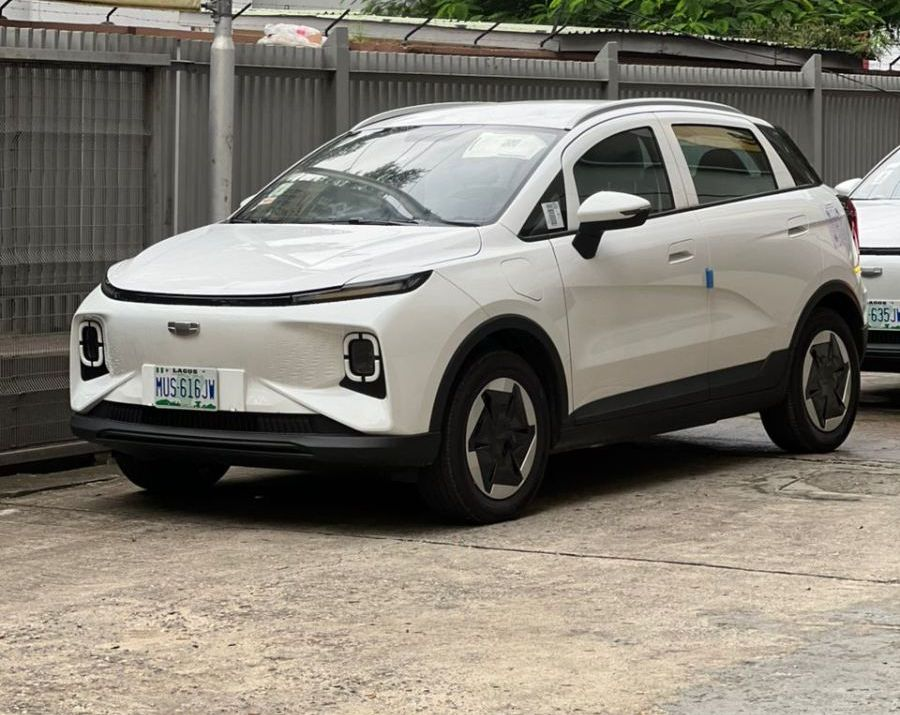
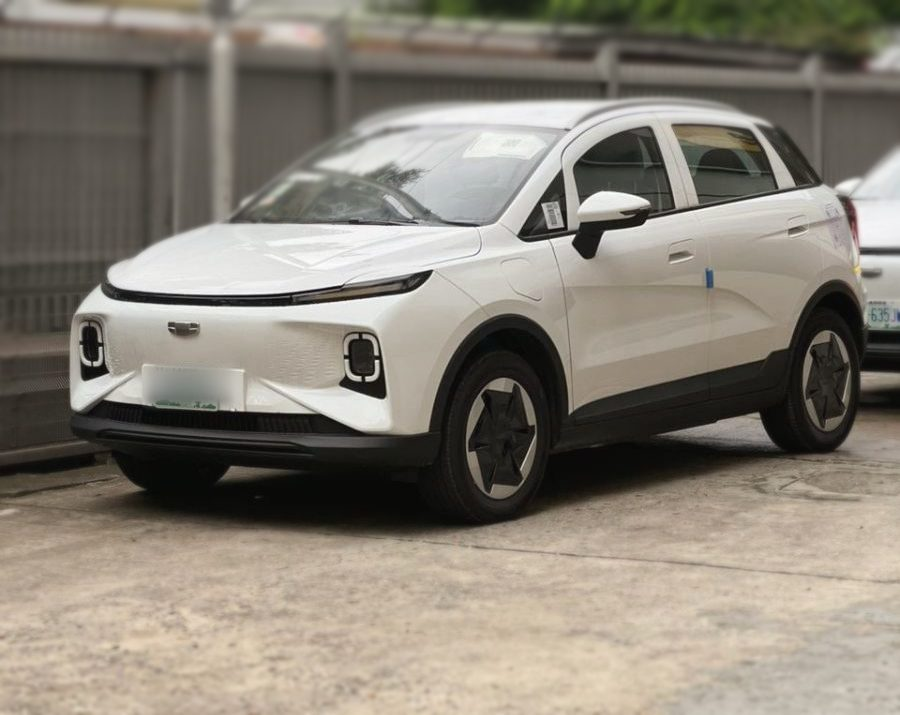
Grade and art-direct the vehicle photographs, blur the plate
Photography, not design: no structure, copy, CTA, pricing or positioning
changes beyond the vehicle-ownership wording the founder asked for.

Editorial grade on all eight photographs so they sit inside the ivory and
charcoal palette rather than reading as phone pictures placed on the
page: a small warm shift, a slight black lift toward charcoal, ~10%
desaturation with a little more restraint on foliage green. Daylight,
white balance on the car and real colour are preserved.

Depth of field on the five exteriors. The vehicle is untouched and fully
sharp; the environment softens progressively, more for distant trees,
buildings, signage, utility wires and neighbouring cars, less just behind
the car, mildly again in the foreground. Maximum radius is 5px on a
900px frame, so the fence, the buildings and the Lagos street all stay
legible — separation, not a cut-out. The three interiors get the grade
only: there is no background to separate inside a car.

MUS-616JW is blurred in the three frames where it is legible, tight to
the plate and soft-edged.

Nothing about the vehicle changed: no alteration to shape, colour,
wheels, trim, badging, interior or proportions, no background
replacement, no added logos, text, props or people.

Founder decisions applied:
- The front-cabin photograph is off the site until the protective
  wrapping is removed; it stays in the repository. The electric page now
  pairs the rear three-quarter with the rear seats, and the corporate
[…]

diff --git a/index.html b/index.html
@@ -109,7 +109,7 @@
     <div class="hero__media">
       <figure class="media-figure">
     <span class="media media--hero">
-      <img src="/assets/img/geely-geometry-e-front-three-quarter.jpg" alt="Zenvoy's white Geely Geometry E parked in Ikoyi, Lagos, seen from the front" loading="eager" decoding="async" width="900" height="715" fetchpriority="high" style="object-position:45% 50%">
+      <img src="/assets/img/geely-geometry-e-front-three-quarter.jpg" alt="A white Geely Geometry E, the electric vehicle available through Zenvoy, parked in Ikoyi, Lagos" loading="eager" decoding="async" width="900" height="715" fetchpriority="high" style="object-position:45% 50%">
     </span>
   </figure>
     </div>
@@ -257,7 +257,7 @@
       <article class="tile">
         <span class="tile__label">Electric</span>
         <h3>Geely Geometry E</h3>
-        <p>Zenvoy&rsquo;s own electric vehicle, with published hourly rates from &#8358;30,000 for two hours. Quiet, cool in traffic and suited to moving around the city.</p>
+        <p>The electric vehicle currently available through Zenvoy, with published hourly rates from &#8358;30,000 for two hours. Quiet, cool in traffic and suited to moving around the city.</p>
         <p class="tile__link"><a class="arrow-link" href="https://wa.me/2348107217858?text=Hi%20Zenvoy%20Mobility%21%20I%20would%20like%20to%20request%20the%20electric%20vehicle%20with%20a%20chauffeur.%0A%0AName%3A%0AWhen%20you%20need%20the%20car%20%28now%20%2F%20later%20today%20%2F%20a%20date%29%3A%0APickup%20time%3A%0APickup%20location%3A%0AHow%20long%20you%20need%20it%20%28from%202%20hours%29%3A%0APassengers%3A%0AVehicle%20preference%3A%20Electric%0ADestination%20%2F%20itinerary%3A%0ASpecial%20requirements%3A%0A%0AThank%20you." target="_blank" rel="noopener">Request this car</a></p>
       </article>
       <article class="tile">
@@ -288,9 +288,9 @@
     <div class="split__media" data-reveal>
       <figure class="media-figure">
     <span class="media media--tall">
-      <img src="/assets/img/geely-geometry-e-front.jpg" alt="Front of Zenvoy's white Geely Geometry E electric vehicle, parked in Lagos" loading="lazy" decoding="async" width="900" height="1200">
+      <img src="/assets/img/geely-geometry-e-front.jpg" alt="Front of the white Geely Geometry E electric vehicle, parked in Lagos" loading="lazy" decoding="async" width="900" height="1200">
     </span>
-    <figcaption class="media__caption">Geely Geometry E &middot; Zenvoy's electric vehicle.</figcaption>
+    <figcaption class="media__caption">Geely Geometry E &middot; Zenvoy's electric vehicle, available on request.</figcaption>
   </figure>
     </div>
     <div data-reveal>
@@ -317,7 +317,7 @@
     <div class="split__media" data-reveal>
       <figure class="media-figure">
     <span class="media media--tall">
-      <img src="/assets/img/geely-geometry-e-interior-rear.jpg" alt="Rear passenger seats of Zenvoy's Geely Geometry E, seen from the front cabin" loading="lazy" decoding="async" width="900" height="1200">
+      <img src="/assets/img/geely-geometry-e-interior-rear.jpg" alt="Rear passenger seats of the Geely Geometry E, seen from the front cabin" loading="lazy" decoding="async" width="900" height="1200">
     </span>
     <figcaption class="media__caption">The rear cabin your passenger actually sits in.</figcaption>
   </figure>

diff --git a/services/index.html b/services/index.html
@@ -199,7 +199,7 @@
       <p class="service__for">Published hourly rates</p>
     </div>
     <div class="service__body">
-      <p>Our electric vehicle with a professional chauffeur, at published rates from &#8358;30,000 for two hours. Quiet, cool and well suited to city movement.</p>
+      <p>The Geely Geometry E with a professional chauffeur, at published rates from &#8358;30,000 for two hours. Quiet, cool and well suited to city movement.</p>
       <p class="service__use"><strong>Typical request</strong>A four-hour block of meetings, at a price you already know before you request it.</p>
     </div>
     <div class="service__cta">
@@ -222,7 +222,7 @@
       <article class="tile">
         <span class="tile__label">Electric</span>
         <h3>Geely Geometry E</h3>
-        <p>Zenvoy&rsquo;s own electric vehicle, with published hourly rates from &#8358;30,000 for two hours. Quiet, cool in traffic and suited to moving around the city.</p>
+        <p>The electric vehicle currently available through Zenvoy, with published hourly rates from &#8358;30,000 for two hours. Quiet, cool in traffic and suited to moving around the city.</p>
         <p class="tile__link"><a class="arrow-link" href="https://wa.me/2348107217858?text=Hi%20Zenvoy%20Mobility%21%20I%20would%20like%20to%20request%20the%20electric%20vehicle%20with%20a%20chauffeur.%0A%0AName%3A%0AWhen%20you%20need%20the%20car%20%28now%20%2F%20later%20today%20%2F%20a%20date%29%3A%0APickup%20time%3A%0APickup%20location%3A%0AHow%20long%20you%20need%20it%20%28from%202%20hours%29%3A%0APassengers%3A%0AVehicle%20preference%3A%20Electric%0ADestination%20%2F%20itinerary%3A%0ASpecial%20requirements%3A%0A%0AThank%20you." target="_blank" rel="noopener">Request this car</a></p>
       </article>
       <article class="tile">
@@ -251,9 +251,9 @@
       <div class="split__media">
         <figure class="media-figure">
     <span class="media media--tall">
-      <img src="/assets/img/geely-geometry-e-side.jpg" alt="Side profile of Zenvoy's Geely Geometry E in Lagos traffic" loading="lazy" decoding="async" width="900" height="1200">
+      <img src="/assets/img/geely-geometry-e-side.jpg" alt="Side profile of the Geely Geometry E in Lagos traffic" loading="lazy" decoding="async" width="900" height="1200">
     </span>
-    <figcaption class="media__caption">Geely Geometry E &middot; Zenvoy's electric vehicle.</figcaption>
+    <figcaption class="media__caption">Geely Geometry E &middot; Zenvoy's electric vehicle, available on request.</figcaption>
   </figure>
       </div>
       <div>

diff --git a/electric/index.html b/electric/index.html
@@ -105,15 +105,15 @@
     <div class="split" data-reveal>
       <figure class="media-figure">
     <span class="media media--tall">
-      <img src="/assets/img/geely-geometry-e-rear-three-quarter.jpg" alt="Rear three-quarter view of Zenvoy's Geely Geometry E parked on a Lagos street" loading="eager" decoding="async" width="780" height="1040">
+      <img src="/assets/img/geely-geometry-e-rear-three-quarter.jpg" alt="Rear three-quarter view of the Geely Geometry E parked on a Lagos street" loading="eager" decoding="async" width="780" height="1040">
     </span>
     <figcaption class="media__caption">Geely Geometry E &middot; the electric vehicle you can request by the hour.</figcaption>
   </figure>
       <figure class="media-figure">
     <span class="media media--tall">
-      <img src="/assets/img/geely-geometry-e-interior-front.jpg" alt="Front cabin of the Geely Geometry E, with grey and cream upholstery" loading="lazy" decoding="async" width="900" height="1200">
+      <img src="/assets/img/geely-geometry-e-rear-seats.jpg" alt="Rear seats of the Geely Geometry E, empty and prepared for passengers" loading="lazy" decoding="async" width="900" height="1200">
     </span>
-    <figcaption class="media__caption">Inside: a clean, quiet cabin, with a Zenvoy chauffeur driving.</figcaption>
+    <figcaption class="media__caption">The rear cabin, where your passenger sits.</figcaption>
   </figure>
     </div>
   </div>
@@ -175,8 +175,7 @@
     <div data-reveal>
       <p class="eyebrow">Worth knowing</p>
       <h2>One electric vehicle, first come.</h2>
-      <p>The electric is a single car, assigned in the order requests come in. Weekends, event season and full days go first.
-      <!-- FOUNDER: confirm before launch that the electric vehicle is a Geely Geometry E and that you want the model named publicly. If yes, add it here: "The car is a Geely Geometry E." --></p>
+      <p>The car is a Geely Geometry E. It is a single vehicle, assigned in the order requests come in, so weekends, event season and full days go first.</p>
       <p>Send us the time and the hours as soon as you know them. If the electric is already out, we will say so and offer an executive or premium alternative instead of leaving you waiting.</p>
       <p class="mb-0"><a class="arrow-link" href="/services/">Other vehicles and services</a></p>
     </div>

diff --git a/corporate/index.html b/corporate/index.html
@@ -170,9 +170,9 @@
     <div class="split__media" data-reveal>
       <figure class="media-figure">
     <span class="media media--tall">
-      <img src="/assets/img/geely-geometry-e-rear-seats.jpg" alt="Rear seats of Zenvoy's Geely Geometry E, empty and prepared for passengers" loading="lazy" decoding="async" width="900" height="1200">
+      <img src="/assets/img/geely-geometry-e-interior-rear.jpg" alt="Rear passenger cabin of the Geely Geometry E, seen from the front seats" loading="lazy" decoding="async" width="900" height="1200">
     </span>
-    <figcaption class="media__caption">Zenvoy's electric vehicle. Executive sedans and SUVs are arranged per request.</figcaption>
+    <figcaption class="media__caption">The Geely Geometry E. Executive sedans and SUVs are arranged per request.</figcaption>
   </figure>
     </div>
     <div data-reveal>

diff --git a/how-it-works/index.html b/how-it-works/index.html
@@ -155,7 +155,7 @@
     <div class="split__media" data-reveal>
       <figure class="media-figure">
     <span class="media media--tall">
-      <img src="/assets/img/geely-geometry-e-street.jpg" alt="Zenvoy's Geely Geometry E on a Lagos road, seen from a neighbouring car" loading="lazy" decoding="async" width="900" height="1200">
+      <img src="/assets/img/geely-geometry-e-street.jpg" alt="The Geely Geometry E on a Lagos road, seen from a neighbouring car" loading="lazy" decoding="async" width="900" height="1200">
     </span>
     <figcaption class="media__caption">On the road in Lagos.</figcaption>
   </figure>

diff --git a/assets/img/README.md b/assets/img/README.md
@@ -10,17 +10,50 @@ Every photograph on the site is a real photograph of Zenvoy's own vehicle, a whi
 | `geely-geometry-e-front-three-quarter.jpg` | Homepage hero (preloaded) | Front three-quarter, parked in Ikoyi. Cropped at the top to keep a third-party advertising banner out of frame. |
 | `geely-geometry-e-front.jpg` | Homepage electric section | Straight-on front view. |
 | `geely-geometry-e-rear-three-quarter.jpg` | Electric page, left | Rear three-quarter, GEOME badge visible. |
-| `geely-geometry-e-interior-front.jpg` | Electric page, right | Front cabin, grey and cream upholstery. |
-| `geely-geometry-e-interior-rear.jpg` | Homepage, "You book Zenvoy, not a driver" | Rear passenger cabin: the passenger's view. |
-| `geely-geometry-e-rear-seats.jpg` | Corporate page | Rear bench, second angle. |
+| `geely-geometry-e-interior-front.jpg` | **Not used on the site** | Front cabin. Held back until the protective wrapping is off the steering wheel and the car reads as in service. |
+| `geely-geometry-e-interior-rear.jpg` | Homepage, "You book Zenvoy, not a driver"; Corporate page | Rear passenger cabin: the passenger's view. The clearest picture of what a customer actually experiences. |
+| `geely-geometry-e-rear-seats.jpg` | Electric page, right | Rear bench, second angle. |
 | `geely-geometry-e-side.jpg` | Services page | Side profile in traffic. |
 | `geely-geometry-e-street.jpg` | How it works page | On the road in Lagos. |
 | `og-cover.jpg` | Link preview on WhatsApp, LinkedIn, X | Typographic card, 1200×630. |
 | `apple-touch-icon.png` | Phone home-screen icon | Wordmark on charcoal. |
 
-All photographs are 900px wide, JPEG, 90–220 KB, metadata stripped. Cropping for different
+All photographs are 780–900px wide, JPEG, 60–140 KB, metadata stripped. Cropping for different
 screen shapes is done in CSS with `object-fit: cover`, so the images are never distorted. The
-hero uses `object-position: 32% 50%` to keep the front of the car in frame on narrow screens.
+hero uses `object-position: 45% 50%` to keep the front of the car in frame on narrow screens.
+
+## Retouching
+
+**Editorial grade (all eight).** A light grade settles the photographs into the site's warm
+ivory and charcoal palette instead of leaving them looking like phone pictures placed on the
+page: a small warm shift, a slight black lift so shadows land near charcoal rather than pure
+black, about 10% desaturation overall and a little more on foliage green, which is the one
+colour that fights the olive accent. Daylight, white balance on the car and real colour are all
+preserved — the car is still white, the sky is still overcast.
+
+**Depth of field (the five exteriors).** the vehicle is
+untouched and fully sharp, and the environment is progressively softened — lightly just behind
+the car, more for distant trees, buildings, signage, utility wires and surrounding vehicles, and
+mildly again in the foreground. Maximum blur radius is 5px on a 900px-wide frame, which reads as
+a wide aperture rather than a cut-out: the fence, the buildings and the Lagos context all stay
+legible.
+
+The number plate (MUS-616JW) is blurred in all three photographs where it is legible — the
+hero, the straight front and the rear three-quarter. The blur is tight to the plate itself and
+soft-edged, so it reads as defocus rather than a pasted patch. It is not legible in the side or
+street photographs, which are untouched in that respect.
+
+Nothing about the vehicle itself was altered — no change to shape, colour, wheels, trim,
+badging or proportions, no added logos, text, props or people, and no background replacement.
+Natural daylight, shadows and reflections are as shot. The **three interior** photographs are
+completely untouched: there is no background to separate inside a car, and blurring anything
+there would mean blurring the vehicle.
+
+Two frames are also cropped, neither in a way that changes the vehicle: the hero loses a
+third-party advertising banner above the car and empty apron below it, and the rear
+three-quarter is tightened to drop sky. If you ever need the untouched originals, they are the
+files you supplied — keep a copy outside the repository, since what is committed here is the
+retouched version.
 
 ## Adding photographs later
 
@@ -43,5 +76,16 @@ When you photograph an actual sedan or SUV that Zenvoy can arrange:
 * Keep other businesses' signage and phone numbers out of frame.
 * Get written permission from anyone recognisable in a photo, chauffeurs included.
 * Export JPEG, quality ~80, longest edge 1600px or less, under 250 KB.
-* Still missing, and worth shooting: a chauffeur at the vehicle, and a passenger being received
-  at the car. Both would strengthen the homepage and the How it works page.
+## Next shoot — agreed shot list
+
+In priority order:
+
+1. Chauffeur standing beside the vehicle, and opening it
+2. Chauffeur receiving a passenger at the vehicle
+3. Passenger entering the rear seat
+4. Chauffeur opening the rear passenger door
+5. Clean exterior three-quarter in a polished Lagos setting
+6. Clean rear passenger interior
+7. Dashboard and front cabin with all protective wrapping removed
+
+Natural, professional, understated. No staged luxury clichés.
